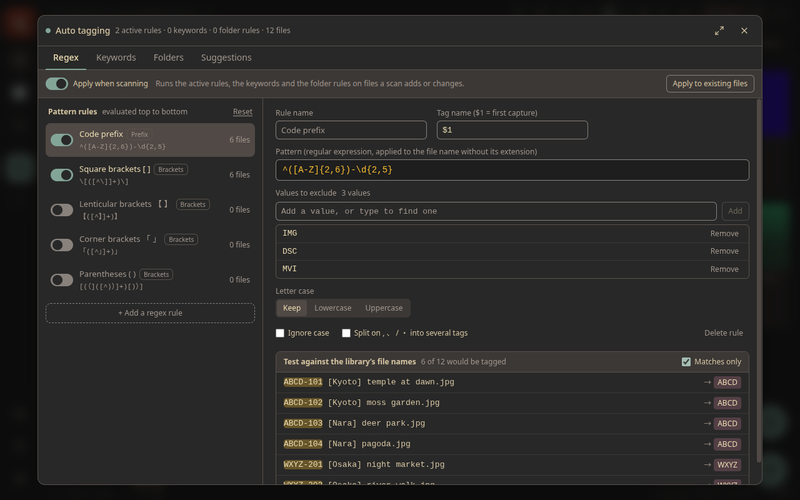
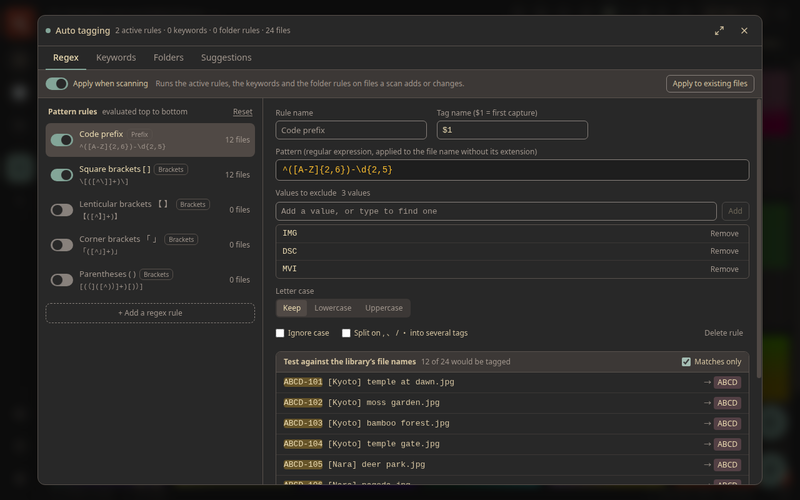
docs: bring the docs up to date with the changes since v0.9.0
- README: add auto tagging, the Tags screen and its cloud, dragging files
  into other apps, the guided tour and CSS theme files to the features, and
  show the auto-tagging and tag-cloud captures
- User guide: describe the tour, the contribution graph, dragging to other
  apps, tags shared across workspaces, the Tags screen and its scope, and
  CSS themes and custom CSS
- GitHub Pages: add a Highlights section with captures to the landing page
- Developer docs: list the auto-tag, tags and duplicates routes, add
  TourProvider to the provider stack, describe config.json ownership,
  WorkspacePasses and the worker entries, and the tag search completion
  across workspaces
- demo-capture: shoot the keywords and suggestions tabs and the tag cloud
  too, and mark the first-launch tour seen so its overlay does not cover
  the captures

diff --git a/docs/guide.html b/docs/guide.html
@@ -127,6 +127,9 @@
     <li>That's it. The folder is remembered, and every later launch re-checks
     it automatically for new, changed, moved, or deleted files.</li>
   </ol>
+  <p>On first launch the pet also offers a short tour of the main screen,
+  starting with a choice of language. Skip it with <kbd>Esc</kbd>, or replay
+  it any time from <strong>Settings → App → Tutorial</strong>.</p>
   <div class="card tip">
     <strong>Your files are safe.</strong> Meguri only ever <em>reads</em> the
     folders you add. It never modifies, moves, or deletes your media files.
@@ -153,6 +156,13 @@
   </ul>
   <p>The grid and the list can also be shown <a href="#folders">by
   folder</a> instead of as one flat library.</p>
+  <p>The <strong>contribution graph</strong> button in the filter bar opens a
+  panel over any view with a year of days as a heatmap, shaded by how many
+  files you played, captured, created, or added on each. Click a day, or drag
+  across several, to narrow the list to them.</p>
+  <p>To hand files to another app — a chat, an editor, a file manager — hover
+  a file in the grid or the list and drag the arrow beside its checkbox. Drag
+  from a selected file's arrow to carry the whole selection.</p>
   <p>Scrolling is infinite — items load as you go, even in very large
   libraries. Use <kbd>Ctrl</kbd> + mouse wheel (or <kbd>Ctrl</kbd> +
   <kbd>+</kbd>/<kbd>-</kbd>) to make everything larger or smaller at any
@@ -272,7 +282,7 @@
   <h2 id="tags">Tags, ratings, and favorites</h2>
   <ul>
     <li><strong>Tags</strong> — add free-form tags in the detail view; the
-    input autocompletes from tags you've already used.</li>
+    input autocompletes from tags already used in that file's workspace.</li>
     <li><strong>Ratings</strong> — rate files from ★ to ★★★★★.</li>
     <li><strong>Favorites</strong> — a one-click heart for the files you come
     back to.</li>
@@ -281,6 +291,22 @@
   you later rename a file or move it to another folder inside the same
   workspace, your tags, rating, favorite mark, and history follow it
   automatically after the next scan.</p>
+  <p>Tags are shared across workspaces by name. Letter case, extra spaces and
+  invisible characters do not matter when you search or tag, so
+  <code>Trip</code> and <code>trip</code> are one tag. Typing
+  <code>tag:</code> in the search box suggests tags from every workspace, the
+  ones in the current view first.</p>
+  <p>The <strong>Tags</strong> screen (the tag button in the header) lists
+  every tag with how many files carry it. Rename, merge, or delete tags there.
+  The change applies to the workspaces in view — every workspace in the
+  <strong>All</strong> view and in collections, only the current one
+  otherwise. A tag that a keyword or folder rule of
+  <a href="#auto-tag">auto tagging</a> names is changed in every workspace,
+  wherever you are. Each spelling (<code>Trip</code>, <code>trip</code>) is
+  listed on its own row, and renaming or merging either changes both.
+  Switch to <strong>Cloud</strong> to see the tags sized by how many files
+  carry them, and click one to search for it.</p>
+  <img class="shot" src="./assets/tags-cloud.png" alt="The Tags screen as a cloud, each tag sized by how many files carry it">
 
   <h2 id="auto-tag">Auto tagging</h2>
   <img class="shot" src="./assets/auto-tag.png" alt="The auto-tagging screen with the code-prefix rule open, listing the files it would tag">
@@ -306,6 +332,8 @@
     now, add it to the keywords so later scans apply it too, or ignore
     it.</li>
   </ul>
+  <img class="shot" src="./assets/auto-tag-keywords.png" alt="The Keywords tab with a keyword open, listing the files whose names hold its term">
+  <img class="shot" src="./assets/auto-tag-suggest.png" alt="The Suggestions tab listing words from the file names that no condition covers yet">
   <p>With <strong>Apply when scanning</strong> on, the conditions run on the
   files each scan adds or changes. <strong>Apply to existing files</strong>
   runs them over the whole library once; that cannot be undone. Either way
@@ -545,6 +573,20 @@
     <li><strong>Themes</strong> — pick from base16 themes (gruvbox, solarized,
     nord, catppuccin, tokyo night, and more) in Settings. The entire UI
     follows the theme, in light and dark variants.</li>
+    <li><strong>CSS themes</strong> — put theme files (<code>.css</code>) in
+    the themes folder (<strong>Settings → General → CSS theme → Open themes
+    folder</strong>) and they appear in the theme list after the built-in
+    ones. A few <a href="https://github.com/zabuton-app/meguri/tree/main/docs/themes">sample
+    themes</a> are ready to try.</li>
+    <li><strong>Custom CSS</strong> — turn on <strong>Settings → General →
+    Custom CSS</strong> and press <strong>Open file</strong> to edit your own
+    <code>custom.css</code>, applied on top of whichever theme is picked.
+    Every save applies right away. If a stylesheet makes the window unusable,
+    move the theme file out of the themes folder or rename
+    <code>custom.css</code>. Stylesheets cannot load anything from the
+    network. See
+    <a href="https://github.com/zabuton-app/meguri/blob/main/docs/theming.md">Theming
+    Meguri with CSS</a> for what can be changed.</li>
     <li><strong>Language</strong> — the UI is available in English, 日本語,
     Español, Français, 한국어, and 简体中文. Switch in Settings.</li>
     <li><strong>Zoom</strong> — <kbd>Ctrl</kbd> + mouse wheel or

diff --git a/docs/index.html b/docs/index.html
@@ -85,6 +85,9 @@
     font-size: .9rem; overflow-x: auto; white-space: nowrap;
   }
   .note { color: var(--muted); font-size: .9rem; margin-top: 1rem; }
+  .feature img { display: block; width: 100%; border: 1px solid var(--border); border-radius: 6px; margin-bottom: .75rem; }
+  .feature p { font-size: .95rem; }
+  .feature a { color: var(--accent); }
   nav.top { margin-top: 1rem; font-size: .95rem; }
   nav.top a { color: var(--accent); text-decoration: none; }
   nav.top a:hover { text-decoration: underline; }
@@ -156,6 +159,42 @@
   <p class="note">All downloads are also available on the
   <a href="https://github.com/zabuton-app/meguri/releases">GitHub Releases</a> page.
   Meguri only ever reads the folders you point it at — your media files are never modified.</p>
+
+  <h2>Highlights</h2>
+  <div class="cards">
+    <div class="card feature">
+      <img src="./assets/auto-tag.png" alt="The auto-tagging screen with a regex rule and the files it would tag" loading="lazy">
+      <h3>🤖 Auto tagging</h3>
+      <p>Turn file names and folders into tags with regex rules, keywords, and
+      folder rules, applied on every scan. Suggestions point out the words no
+      rule covers yet. <a href="./guide.html#auto-tag">More</a></p>
+    </div>
+    <div class="card feature">
+      <img src="./assets/tags-cloud.png" alt="The Tags screen as a tag cloud" loading="lazy">
+      <h3>🏷 Tags across workspaces</h3>
+      <p>One tag is one tag in every workspace, letter case aside. Rename,
+      merge, or delete tags across workspaces from one screen, and see them as
+      a list or a cloud.
+      <a href="./guide.html#tags">More</a></p>
+    </div>
+    <div class="card feature">
+      <img src="./assets/graph-2d.png" alt="The graph view: files and their tags as a network" loading="lazy">
+      <h3>🕸 Timeline, graph, and contribution graph</h3>
+      <p>Walk through the library day by day, see files and tags as a network,
+      or narrow the list from a year-long heatmap.
+      <a href="./guide.html#browsing">More</a></p>
+    </div>
+    <div class="card feature">
+      <img src="./assets/theme-nord-dark.png" alt="Meguri in the Nord dark theme" loading="lazy">
+      <h3>🎨 Themes and custom CSS</h3>
+      <p>Pick a built-in theme, drop in CSS theme files, or restyle anything
+      with your own <code>custom.css</code>.
+      <a href="./guide.html#appearance">More</a></p>
+    </div>
+  </div>
+  <p class="note">Also: drag files straight into other apps, a guided tour
+  on first launch, playlists, Discovery, and more — see the
+  <a href="./guide.html">User Guide</a>.</p>
 
   <footer>
     <p>Free &amp; open source (MIT) ·

diff --git a/README.md b/README.md
@@ -166,9 +166,17 @@ Or run from source — see [Setup and Launch](#setup-and-launch).
 - 🔍 **Powerful search** — filter and sort by full text (FTS5), tags, kind,
   rating, and captured, created, added, and played date ranges, with
   conditions shown as removable badges
-- 🏷 **Tags, ratings & history** — manual tags with autocomplete, ★ ratings,
-  and playback history that survive file moves and renames, plus a day-grouped
-  history timeline across all workspaces
+- 🏷 **Tags, ratings & history** — manual tags with autocomplete, shared
+  across workspaces by name (letter case and stray spacing aside, one tag is
+  one tag), ★ ratings, and playback history that survive file moves and
+  renames, plus a day-grouped history timeline across all workspaces
+- 🤖 **Auto tagging** — tag files from their names and folders: regex rules,
+  keywords, and folder rules, with suggestions of words no rule covers yet;
+  applied to new and changed files on every scan, or to the whole library at
+  once
+- 🗃 **Tags screen** — rename, merge, and delete tags (across every
+  workspace from the All view or a collection), as a list or as a cloud sized
+  by how many files carry each tag
 - 📅 **Timeline view** — the library in date order, a section per day, with a
   rail of every month and day down the side to drag straight to any of them.
 - 🕸 **Graph view** — see the library as a network of files and their tags,
@@ -188,18 +196,23 @@ Or run from source — see [Setup and Launch](#setup-and-launch).
 - 📺 **Playlist playback** — play any list hands-off in a full-screen player,
   with shuffle, repeat, manual ordering, and timed images
   ([see above](#-playlist--press-play-and-let-it-run))
+- ↗ **Drag to other apps** — drag files (or the whole selection) from the
+  grid or the list into other desktop apps
 - 📋 **Copy to clipboard** — copy any image to the clipboard from the detail
   view, ready to paste elsewhere
 - 📑 **Side peek** — open any file's detail as a resizable sheet docked beside
   the library instead of a modal, keeping the grid, search, and player bar in
   use while you watch, tag, and rate; Meguri remembers which you prefer
+- 🧭 **Guided tour** — on first launch the pet walks you through the main
+  screen; replay it any time from Settings
 - 🐾 **A pet** — a pixel-art zabuton that wanders along the bottom of the
   window: drop a file on it to queue it in Watch Later, double-click it for
   Discovery, or put it away from its menu
 - 🎨 **Themes** — base16-based multi-theme switching (gruvbox / solarized /
   monokai / nord / dracula, etc.)
 - 🖌 **Custom CSS** — layer your own `custom.css` over the theme to recolor or
-  restyle the UI; saved changes apply instantly
+  restyle the UI, or keep several stylesheets as CSS themes and pick one next
+  to the built-in themes; saved changes apply instantly
 - 🔎 **Content zoom** — Ctrl + wheel (and Ctrl +/-/0)
 - 🔒 **Privacy-first** — no telemetry, no analytics, no external network
   communication ([see below](#privacy))
@@ -232,6 +245,22 @@ The same library shown by folder, stepping in and out of folders:
 The graph view: files and their tags as a network, in 2D or 3D:
 
 ![Graph view demo — picking a tag from the search to light up its files, then orbiting the same graph in 3D](./docs/assets/graph.gif)
+
+Auto tagging from file names: a regex rule taking the code at the start of
+each name, with the files it would tag:
+
+![Auto tagging — the code-prefix rule and the files it would tag](./docs/assets/auto-tag.png)
+
+Keywords add tags to every file whose name holds one of their terms, and the
+suggestions list the words no condition covers yet:
+
+![Auto tagging — a keyword and the files it finds](./docs/assets/auto-tag-keywords.png)
+
+![Auto tagging — suggested words from the file names](./docs/assets/auto-tag-suggest.png)
+
+The Tags screen as a cloud, each tag sized by how many files carry it:
+
+![Tag cloud](./docs/assets/tags-cloud.png)
 
 Selecting several files and rating, favoriting, and tagging them at once:
 

diff --git a/docs/data-model.md b/docs/data-model.md
@@ -202,11 +202,23 @@ both. The match is a case-insensitive substring — a tag is as often remembered
 a word in the middle of it — ranked prefix-first then by file count, and capped
 at `MAX_TAG_SUGGESTIONS`. Tab or Enter accepts the highlighted candidate and
 chips it; Tab preventDefaults so the caret stays put for the next condition,
-while Shift+Tab still leaves the field. The candidates come from the
-`tags_list_all` catalog the tag management screen already caches, filtered in the
-renderer: one query instead of one per keystroke, and correct in the `All` view
-and in collections, where a workspace-scoped `tags_list` cannot resolve a
-database at all.
+while Shift+Tab still leaves the field. The candidates come from a
+`tags_list_all` catalog fetched once (under the tag screen's query-key prefix,
+so every tag mutation invalidates it too) and filtered in the renderer: one
+query instead of one per keystroke, and correct in the `All` view and in
+collections, where a workspace-scoped `tags_list` cannot resolve a database at
+all. The box asks for the catalog of **every** workspace
+(`tags_list_all` with `allWorkspaces`), so a tag kept in another workspace is
+offered too: the view's own tags come first, and the rest are marked as held in
+other workspaces only. Past the catalog's cap the view's own tags are the ones
+kept (`prefer`).
+
+The tag management screen's rename, merge and delete fan out over the
+workspaces in view — every workspace in `All` and in collections — and each
+database resolves the names by `tagIdentityKey()`, so `Trip` in one workspace
+and `trip` in another are renamed, merged or deleted together. An operation
+that an auto-tagging condition reaches runs in every workspace (see
+[Auto tagging](#auto-tagging)).
 
 ## Derived tags
 

diff --git a/docs/architecture.md b/docs/architecture.md
@@ -119,7 +119,8 @@ lifecycle behavior:
   therefore `before-quit`, which advances `quitPhase`.
 - `before-quit` is a two-pass gate (Linux / Windows): the first pass calls
   `preventDefault()`, runs the async `shutdown()` (hide the window, stop the
-  local servers, abort scans, dispose the query worker), then closes every
+  local servers, abort scans and workspace passes, dispose the query and
+  auto-tagging workers), then closes every
   workspace DB handle and re-enters `app.quit()`; the second pass lets the quit
   proceed. Repeated quit requests during the wait are absorbed, and the wait is
   bounded so a stuck teardown cannot keep the app alive. Once quitting, no scan
@@ -150,8 +151,12 @@ The root path is hashed (SHA1, first 16 hex characters) into a stable ID via
 `Workspaces.idFor()` / `pathHash()`; that ID is also the name of the directory
 holding the workspace's generated files.
 
-- `electron/core/appConfig.ts` is the lone layer that persists `roots`,
-  `activePath`, `collections`, and `autoTag` to `<userData>/config.json`.
+- `electron/core/appConfig.ts` is the lone layer that persists
+  `<userData>/config.json`: `roots`, `activePath`, `collections` and
+  `workspaceEmojis` (owned by `Workspaces`), plus `update`, `logo`, `autoTag`,
+  `customCss` and `cssTheme`. Each owner writes only its own fields through
+  `updateConfig()`, which merges over what is on disk; writing a snapshot back
+  wholesale would revert the fields another owner changed since.
 - `electron/core/workspaces.ts` reads the config and caches a `Core` per ID. It
   distinguishes `active()` (the active workspace) from `byId()` (any workspace by
   ID). Code that opens files should be deliberate about which it needs — the

diff --git a/docs/renderer.md b/docs/renderer.md
@@ -9,8 +9,10 @@ fetching, internationalization, theming, and content zoom.
 Routing uses `createHashRouter` (`src/App.tsx`); a hash router is the stable
 choice inside a webview. `/` (`src/routes/Home/`) is the parent route, and
 `file/:id` (`src/routes/MediaDetail/`), `discover` (`src/routes/Discover/`),
-`play` (`src/routes/Player/`), `history` (`src/routes/History/`), and
-`settings` (`src/routes/Settings/`) are its **children**. Home renders an
+`play` (`src/routes/Player/`), `history` (`src/routes/History/`),
+`duplicates` (`src/routes/Duplicates/`), `tags` (`src/routes/Tags/`),
+`auto-tag` (`src/routes/AutoTag/`), and `settings` (`src/routes/Settings/`)
+are its **children**. Home renders an
 `<Outlet />`, so these children mount as modals **on top of** the list, which
 stays mounted underneath. The file detail can alternatively dock as a **side
 peek** — a sheet docked beside the list as a flex sibling, so the list narrows
@@ -32,7 +34,7 @@ mechanics in such hooks and components; `index.tsx` should stay a composition.
 The provider stack is set up in `src/main.tsx`:
 
 ```text
-QueryClientProvider → ThemeProvider → I18nProvider → PreferencesProvider → ConfirmProvider
+QueryClientProvider → ThemeProvider → I18nProvider → PreferencesProvider → TourProvider → ConfirmProvider
 ```
 
 ## Audio playback

diff --git a/docs/media-pipeline.md b/docs/media-pipeline.md
@@ -51,6 +51,14 @@ supports cancellation via `AbortSignal` while idle. `ScanManager` guards
 against concurrent scans of the same workspace with its `scanning` set, which
 avoids chunked-transaction conflicts.
 
+Writes over every workspace outside a scan ("Apply to existing files" on the
+auto-tagging screen) run through `WorkspacePasses`
+(`electron/core/workspacePasses.ts`), one workspace at a time. Removing a
+workspace goes through `holding()`, which aborts and waits for the pass on it
+and keeps new ones off it until the removal is done; quitting calls
+`abortAll()` next to `ScanManager.abortAll()`, so no pass writes into a
+database after it is closed. A new pass of that kind belongs there too.
+
 ffmpeg processes that decode video are capped process-wide by the
 `videoDecodeSlots` semaphore in `electron/core/mediaConcurrency.ts`, shared between
 the scan pipeline (video thumbnails) and the media server (frame grabs, image

diff --git a/docs/build-and-ci.md b/docs/build-and-ci.md
@@ -27,7 +27,9 @@ launching, so Electron does not accidentally start in node mode.
 
 - Preload is emitted as **CommonJS** (`.js`); ESM `.mjs` preload can fail to
   load, and `electron/main.ts` resolves the preload, the renderer entry and
-  the query worker through `__dirname`, which assumes CJS output.
+  the worker threads (`queryWorker.js`, `autoTagWorker.js`) through
+  `__dirname`, which assumes CJS output. Each worker is its own main-build
+  entry in `electron.vite.config.ts`.
 - TypeScript uses separate tsconfigs for `src` and `electron`, both `strict` with
   `noUnusedLocals` / `noUnusedParameters`.
 

diff --git a/tools/demo-capture/README.md b/tools/demo-capture/README.md
@@ -30,7 +30,7 @@ node tools/demo-capture/shoot-history.mjs    # history.png — play-history view
 node tools/demo-capture/shoot-peek.mjs       # side-peek.png — side peek
 node tools/demo-capture/shoot-audio.mjs      # audio.png — player bar
 node tools/demo-capture/shoot-spectrum.mjs   # spectrum*.png — audio spectrum
-node tools/demo-capture/shoot-auto-tag.mjs   # auto-tag.png — auto-tagging screen
+node tools/demo-capture/shoot-auto-tag.mjs   # auto-tag*.png, tags-cloud.png — auto tagging and the tag cloud
 ```
 
 `record-graph.mjs`, `record-folders.mjs`, `record-bulk-edit.mjs` and
